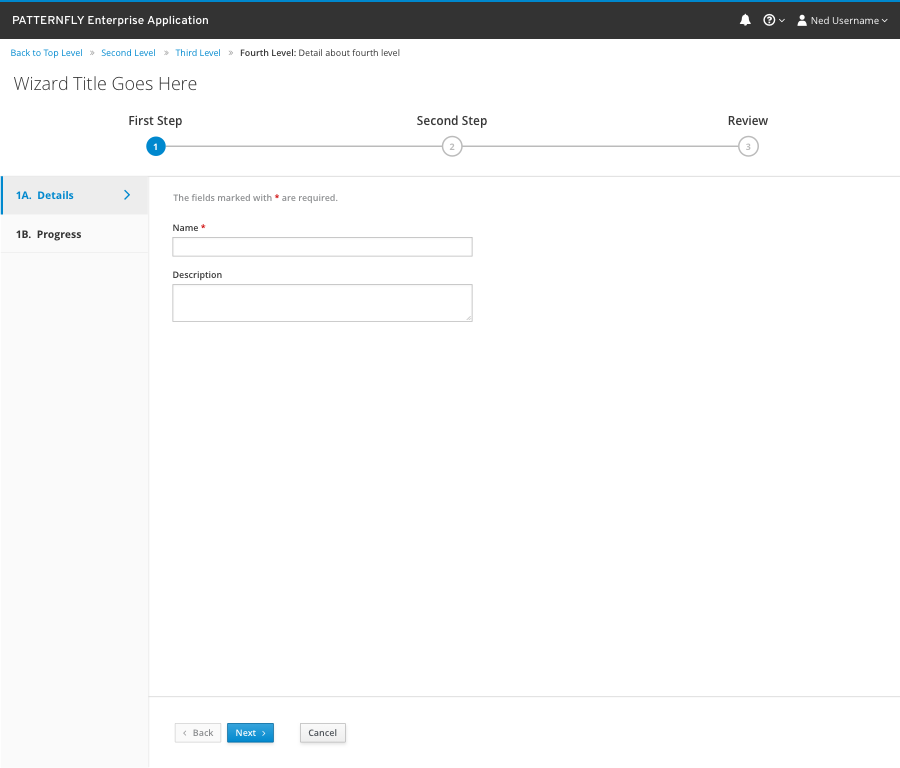
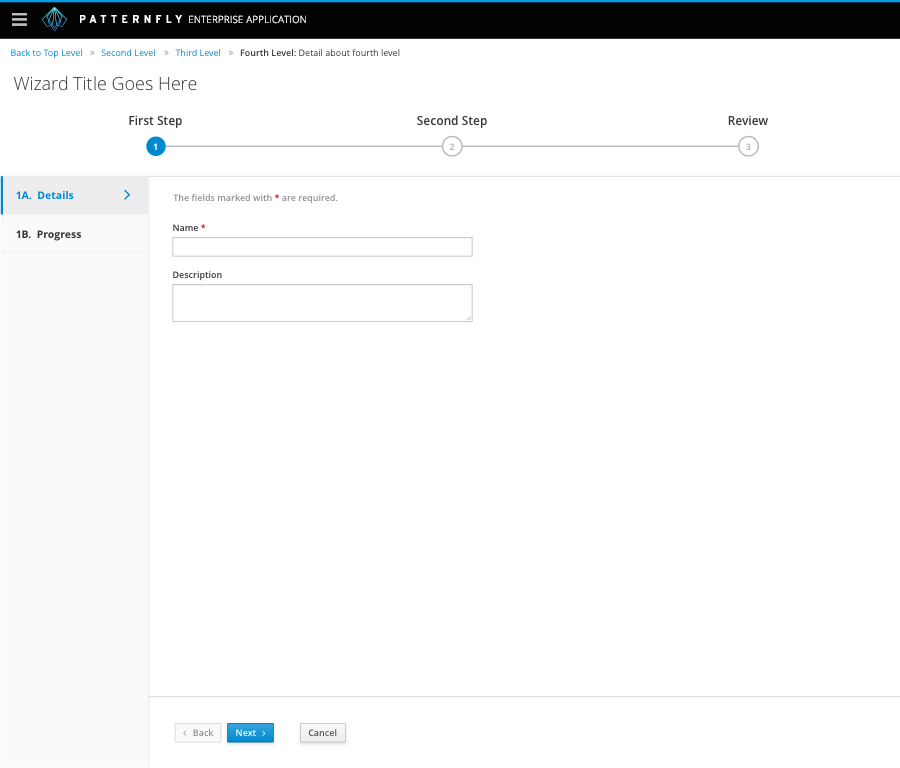
Added files from commit #e388f381499a3def885a854faea3393bdda88f54

Changed region(s): [[0.0, 0.0, 1.0, 0.0625]]

diff --git a/pattern-library/navigation/horizontal-navigation/index.html b/pattern-library/navigation/horizontal-navigation/index.html
@@ -589,45 +589,58 @@
       <div class="tab-content">
         <div role="tabpanel" class="tab-pane active" id="overview">
           
-          <p>It is recommended to use horizontal navigation when you want to provide access to global navigation of an application at the top of every page. When using this pattern with the <a href="/pattern-library/communication/notification-drawer/#/api">Notification Drawer</a>, it is recommended to use the sticky horizontal navigation so that the navigation and notification drawer stick to the top of the page on scroll. This horizontal navigation pattern will support up to three levels of navigation.</p>
+          <p>It is recommended to use horizontal navigation when your application requires global navigation that is displayed always at the top.
+The horizontal navigation pattern supports up to two levels of navigation( Primary and Secondary).</p>
 
-<p>The top level (primary) navigation should always be exposed. Secondary and tertiary levels can either be persistent or hidden within drop-down menus. The latter provides less visibility to lower-level categories but saves vertical screen space.</p>
+<ul>
+  <li><strong>Primary level navigation</strong> - The primary level navigation should always be exposed.</li>
+  <li><strong>Secondary navigation</strong> - The secondary level can either be persistent or hidden within drop-down menus. The latter provides less visibility to lower-level categories but saves vertical screen space.</li>
+</ul>
 
-<p>As a rule of thumb, the horizontal navigation is the preferred choice over  <a href="/pattern-library/navigation/vertical-navigation/">vertical navigation</a> when:</p>
+<p>As a rule of thumb, the horizontal navigation is the preferred choice over <a href="/pattern-library/navigation/vertical-navigation/">Vertical Navigation</a> when:</p>
+<ul>
+  <li>There are a small number of fixed categories. You want to provide the best visibility to primary categories by placing them immediately below the page header area.</li>
+  <li>Consider using <a href="/pattern-library/navigation/vertical-navigation/">Vertical Navigation</a> if you need a solution that can easily scale for a large amount of menu items and easily adapt to small screen sizes.</li>
+  <li>Horizontal menus can also be made responsive but it usually requires a transformation from horizontal to vertical. Since vertical menus are already in this format, the transition from desktop to mobile is less disorienting.</li>
+</ul>
 
-<p>There are a small number of fixed categories.
-You want to provide the best visibility to primary categories by placing them immediately below the page header area.
-Consider using <a href="/pattern-library/navigation/vertical-navigation/">vertical navigation</a> if you need a solution that can easily scale for a large amount of menu items and easily adapt to small screen sizes. Horizontal menus can also be made responsive but it usually requires a transformation from horizontal to vertical. Since vertical menus are already in this format, the transition from desktop to mobile is less disorienting.</p>
+<p>When using this pattern with the <a href="/pattern-library/communication/notification-drawer/#/api">Notification Drawer</a>, it is recommended to use the sticky horizontal navigation so that the navigation and notification drawer stick to the top of the page on scroll.</p>
 
-<p>Jump to <a href="/pattern-library/navigation/horizontal-navigation/#example-overview-1">Masthead Design</a>, <a href="/pattern-library/navigation/horizontal-navigation/#example-overview-2">Standard Horizontal Navigation</a>, or <a href="/pattern-library/navigation/horizontal-navigation/#example-overview-3">Navbar Variations</a></p>
+<p>Jump to <a href="#masthead-design">Masthead Design</a>, <a href="#standard-horizontal-navigation">Standard Horizontal Navigation</a>, or <a href="#navbar-variations">Navbar Variations</a>.</p>
+
+<h2 id="masthead-design">Masthead Design</h2>
+<p>The horizontal navigation is recommended to use the the short masthead in order to reduce the vertical real estate.</p>
+
+<p><img src="img/masthead-horizontal@2x.png" alt="Masthead" /></p>
 
 <h2 id="standard-horizontal-navigation">Standard Horizontal Navigation</h2>
-<p><img src="img/standard-horizontal navigation.png" alt="Standard Horizontal Navigation" /></p>
+<p><img src="img/standard-horizontal-navigation.png" alt="Standard Horizontal Navigation" /></p>
 
 <p><a href="/pattern-library/navigation/horizontal-navigation/horizontal-navigation.html">View full page example</a></p>
 
 <h2 id="navbar-variations">Navbar Variations</h2>
 
 <h3 id="single-level-menu-bar">Single-Level Menu Bar</h3>
-<p><img src="img/single-level-menu-bar.png" alt="Single Level Menu Bar" /></p>
+<p><img src="img/masthead-horizontal@2x.png" alt="Single Level Menu Bar" /></p>
 
 <h3 id="two-level-menu-bar">Two-Level Menu Bar</h3>
-<p><img src="img/two-level-menu-bar.png" alt="Two Level Menu Bar" /></p>
+<p><img src="img/menu-bar-two-level@2x.png" alt="Two Level Menu Bar" /></p>
 
 <h3 id="menu-bar-with-drop-downs">Menu Bar with Drop-Downs</h3>
-<p><img src="img/menu-bar-with-drop-downs.png" alt="Menu Bar with drop downs" /></p>
+<p><img src="img/menu-bar-drop-downs.png" alt="Menu Bar with drop downs" /></p>
 
         </div>
         <div role="tabpanel" class="tab-pane" id="design">
           
             
-            <h2 id="masthead-design">Masthead Design</h2>
+            <p>Jump to <a href="#masthead-design">Masthead Design</a>, <a href="#single-level-menu-bar">Single-Level Menu Bar</a>, <a href="#two-level-menu-bar">Two-Level Menu Bar</a>, or <a href="#menu-bar-with-drop-downs">Menu Bar with Drop-Downs</a>.</p>
 
+<h2 id="masthead-design">Masthead Design</h2>
 <p>There are two options for the <a href="/pattern-library/application-framework/masthead/#_">Masthead</a> design, one short option to save space and one tall option to accommodate for larger product logos. The short masthead option is recommended when using horizontal navigation.</p>
 
 <h2 id="single-level-menu-bar">Single-Level Menu Bar</h2>
 
-<p><img src="img/horizontal-nav-single.png" alt="Horizontal Navbar with Single-Level" /></p>
+<p><img src="img/design-single-level-navigation@2x.png" alt="Horizontal Navbar with Single-Level" /></p>
 
 <p>The Single-Level Menu Bar is the default navbar, all other options are added to this basic pattern.</p>
 
@@ -638,7 +651,7 @@ Consider using <a href="/pattern-library/navigation/vertical-navigation/">vertic
 
 <h2 id="two-level-menu-bar">Two-Level Menu Bar</h2>
 
-<p><img src="img/horizontal-nav-two.png" alt="Horizontal Navbar with Two-Level" /></p>
+<p><img src="img/design-two-level-navigation@2x.png" alt="Horizontal Navbar with Two-Level" /></p>
 
 <p>When a second level of persistent navigation is needed, add a second tier of links.</p>
 
@@ -650,15 +663,14 @@ Consider using <a href="/pattern-library/navigation/vertical-navigation/">vertic
 
 <h2 id="menu-bar-with-drop-downs">Menu Bar with Drop-Downs</h2>
 
-<p><img src="img/horizontal-nav-dropdown.png" alt="Horizontal Navbar with Drop-Down" /></p>
+<p><img src="img/design-drop-downs-navigation@2x.png" alt="Horizontal Navbar with Drop-Down" /></p>
 
-<p>Add a drop-down menu to a single menu bar to expose a vertical list of sub-categories that the user can select from. Note that when drop-down menus are used, all categories are not required to have secondary navigation.</p>
+<p>Add a drop-down menu to a single menu bar to expose a vertical list of sub-categories that the user can select from. Note that when drop-down menus are used, all categories are not required to have secondary navigation. The drop-down menus only support up to two levels of navigation. If you need the tertiary navigation, <a href="/pattern-library/navigation/vertical-navigation/">Vertical Navigation</a> is the preferred choice over horizontal navigation.</p>
 
 <ol>
   <li><strong>Primary Menu Item</strong>: Any primary item that supports a secondary level of navigation will add a down-caret icon to indicate that a drop-down menu exists. The primary item will display its selected state when any secondary page within that branch is selected. This will provide the user feedback about which primary section they are working in. When an application is initially opened, the first secondary page within the first section will be opened, by default.</li>
   <li><strong>Drop-Down Menu</strong>: Single-clicking a primary item opens the drop down. Clicking anywhere outside of the menu will dismiss it.</li>
-  <li><strong>Secondary Menu Item</strong>: Secondary items have hover and selected states. Clicking an item navigates to a new page and dismisses the menu. If a third level of navigation is to be exposed, a right-facing caret icon will be displayed on the right of the menu item. Hovering over this item will expose a fly-out menu to the right.</li>
-  <li><strong>Fly-Out Menu</strong>: Drop-down menus may also expose an additional level of menus, sometimes called a flyout menu to expose an additional level of the information hierarchy. Flyout menu should appear to the right.</li>
+  <li><strong>Drop-Down Menu On Hover and Selected</strong>: The drop-down menu items have hover and selected states. Hover state provides feedback that menu items are active. Clicking this item navigates to a new page and dismisses the menu.</li>
 </ol>
 
           

diff --git a/pattern-library/communication/wizard/index.html b/pattern-library/communication/wizard/index.html
@@ -597,7 +597,10 @@
 <p><img src="img/wizard-flow-example.png" alt="Wizard example image" /></p>
 
 <h2 id="embedded-wizard">Embedded Wizard</h2>
-<p><img src="img/embedded-wizard.png" alt="Embedded wizard Example" /></p>
+<p><img src="img/embedded-wizard.png" alt="Embedded wizard example" /></p>
+
+<h2 id="wizard-mobile-view">Wizard Mobile View</h2>
+<p><img src="img/responsive-wizard.png" alt="Responsive wizard example" /></p>
 
         </div>
         <div role="tabpanel" class="tab-pane" id="design">
@@ -624,6 +627,8 @@
   <li><strong>Button Bar:</strong> The button bar provides the appropriate action buttons, these are usually a combination of Cancel, Back, Next and Finish. The exact wording on the Finish button can be adjusted to be more reflective of the completion action appropriate to what the user will be doing. The Back button should always be enabled except for the first step. The Next button should become enabled once all required information has been entered for the current step and/or sub-step. The Next button will move the user through any sub-steps before it moves the user to the next main step. The Back button will also behave the same way. In some cases the completion action button will close the dialog, in others, it views progress in the wizard, and ends up changing the label of that button.
 In the example above, the back button is disabled since this shows the first sub step within the first step.</li>
 </ol>
+
+<p><strong>Usage Note:</strong> Main step and sub-step names should be kept as short and descriptive as possible. Preferably only one or two words.</p>
 
 <h2 id="next-step">Next Step</h2>
 
@@ -677,9 +682,38 @@ In the example above, the back button is disabled since this shows the first sub
   <li><strong>Breadcrumbs:</strong> If the user has come from somewhere where they may want to return, such as the main body of an application rather than an external site or login page, breadcrumbs should be available above the wizard title</li>
 </ol>
 
-<h3 id="whats-not-covered-in-the-current-design-but-will-be-covered-in-future-sprints">What’s not covered in the current design but will be covered in future sprints:</h3>
+<h2 id="responsive-states">Responsive States</h2>
 
-<p>The following functionality is not covered in this pattern:</p>
+<h3 id="mobile-wizard">Mobile Wizard</h3>
+<p><img src="img/responsive-wizard-callout1.png" alt="Collapsed responsive wizard" /></p>
+
+<ol>
+  <li><strong>Current Main Step:</strong> The currently active main step is displayed at the top of the form along with the step number</li>
+  <li><strong>Current Sub-step</strong> (Optional)<strong>:</strong> If the current main step has sub-steps, the name of the sub-step appears next to it at the top of the page. If the main and sub-step names are long enough that <a href="/styles/terminology-and-wording/#truncation">truncation</a> is required, the sub-step name should be truncated before the main step name unless the sub-step name is critical to filling in the form.</li>
+  <li><strong>Steps Dropdown:</strong> Clicking on this dropdown reveals all steps in the wizard and enables users to switch between them if applicable</li>
+  <li><strong>Button Bar:</strong> Wizard actions are available on the button bar, which is fixed at the bottom of the page for embedded wizards and modals wizards except for in smaller screen sizes, which requires the user to scroll the page for the button bar.</li>
+</ol>
+
+<p><img src="img/responsive-wizard-callout2.png" alt="Expanded responsive wizard" /></p>
+
+<ol>
+  <li><strong>Main Steps:</strong> Main wizard steps are shown vertically when the steps dropdown is expanded. Clicking on a different step will display its sub-steps, or switch to it if it does not have any sub-steps.</li>
+  <li><strong>Sub-steps for the Selected Main Step</strong> (Optional)<strong>:</strong> Clicking on a sub-step will switch to that sub-step. The current sub-step is highlighted.</li>
+</ol>
+
+<h3 id="simplified-mobile-wizard">Simplified Mobile Wizard</h3>
+<p>If an application does not require the ability to switch between or view all steps from mobile devices, a simplified version of the wizard without a dropdown can be used instead.</p>
+
+<p><img src="img/responsive-wizard-callout3.png" alt="Simplified responsive wizard" /></p>
+
+<ol>
+  <li><strong>Current Main Step:</strong> The currently active main step is displayed at the top of the form along with the step number</li>
+  <li><strong>Current Sub-step</strong> (Optional)<strong>:</strong> If the current main step has sub-steps, the name of the sub-step appears next to it at the top of the page.</li>
+</ol>
+
+<h3 id="whats-not-covered-in-the-current-design">What’s not covered in the current design</h3>
+
+<p>The following functionality is not covered in this pattern but will be covered in future iterations:</p>
 
 <ol>
   <li>In certain cases, the wizard will need to show step by step progress. This functionality is not covered.</li>
@@ -687,8 +721,6 @@ In the example above, the back button is disabled since this shows the first sub
   <li>For more complex and time-consuming tasks, a wizard can have an optional save to let the user leave the wizard and return later. Some considerations for this feature are auto-saving and what happens if a session times out.</li>
   <li>For more complex wizards, there may be more steps or text than can be shown on the screen at one time. This pattern does not address the scalability of the main step bar.</li>
 </ol>
-
-<p>These requirements will be added to the pattern at a later date.</p>
 
           
         </div>
